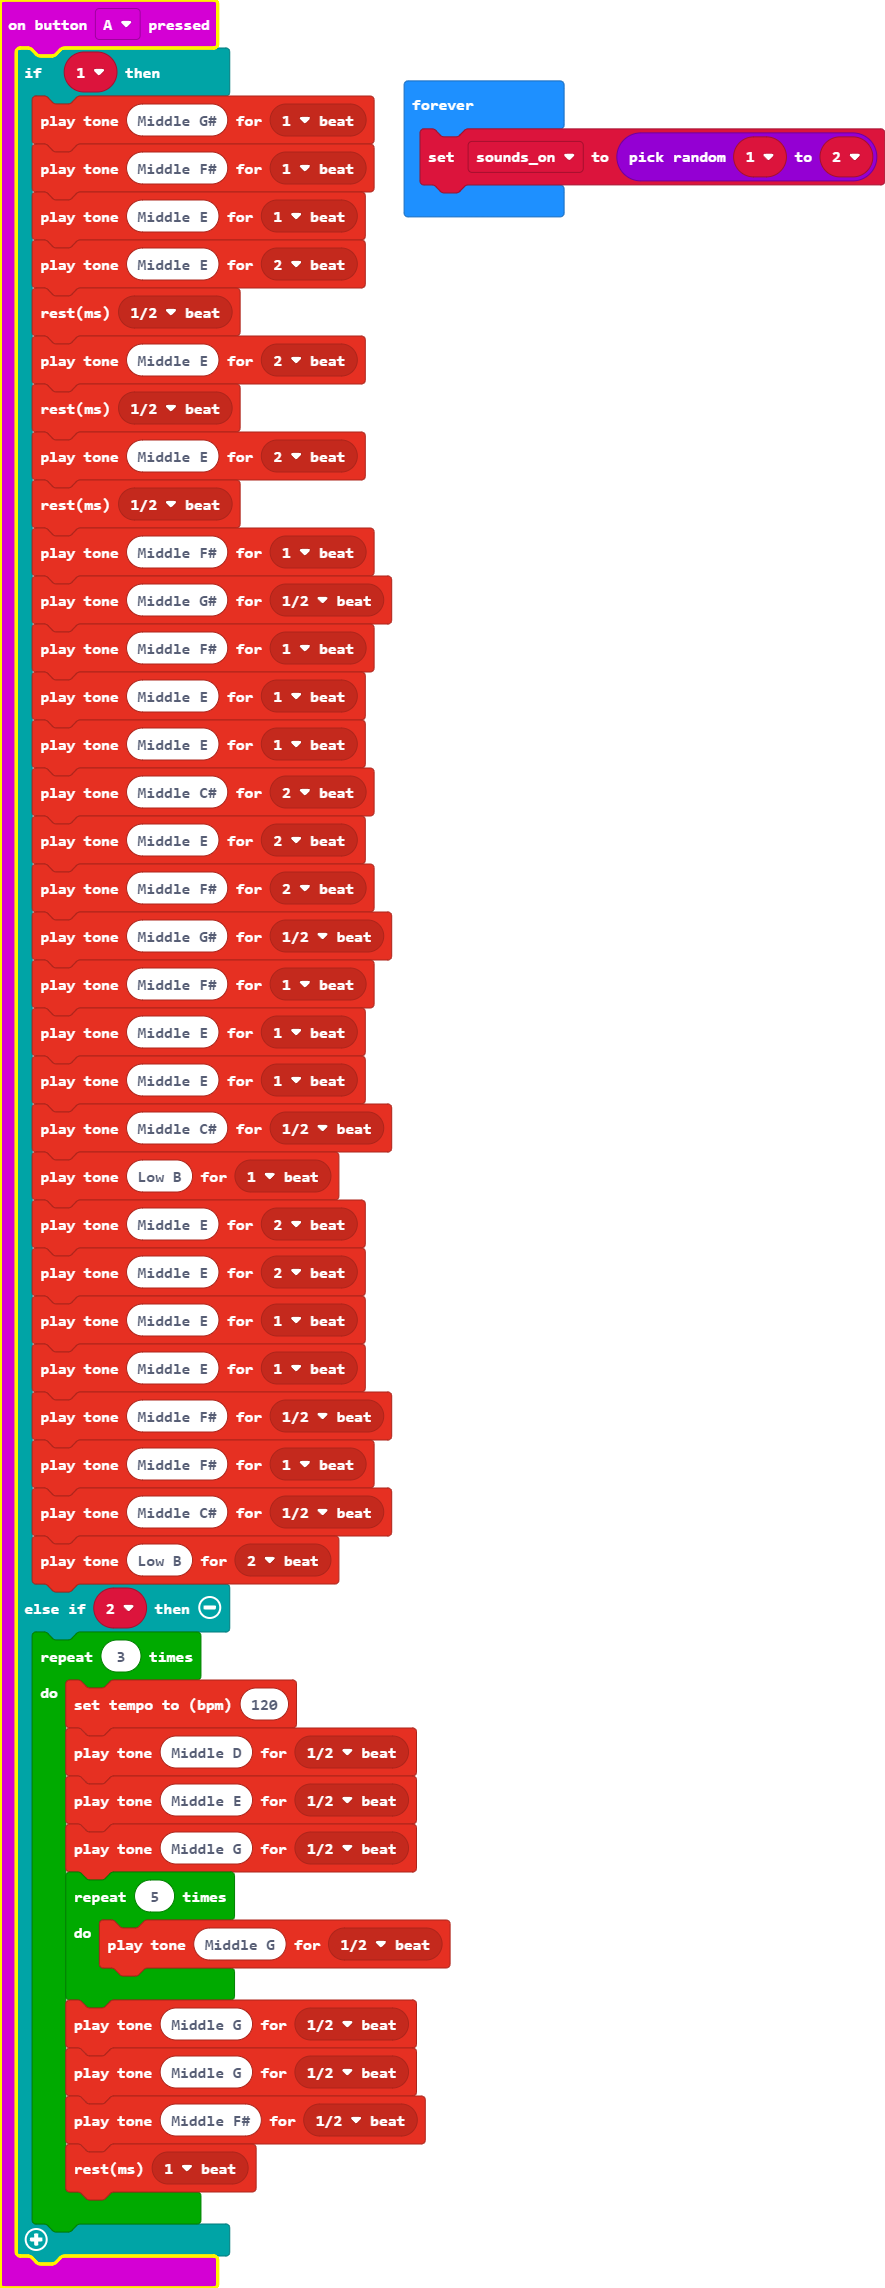
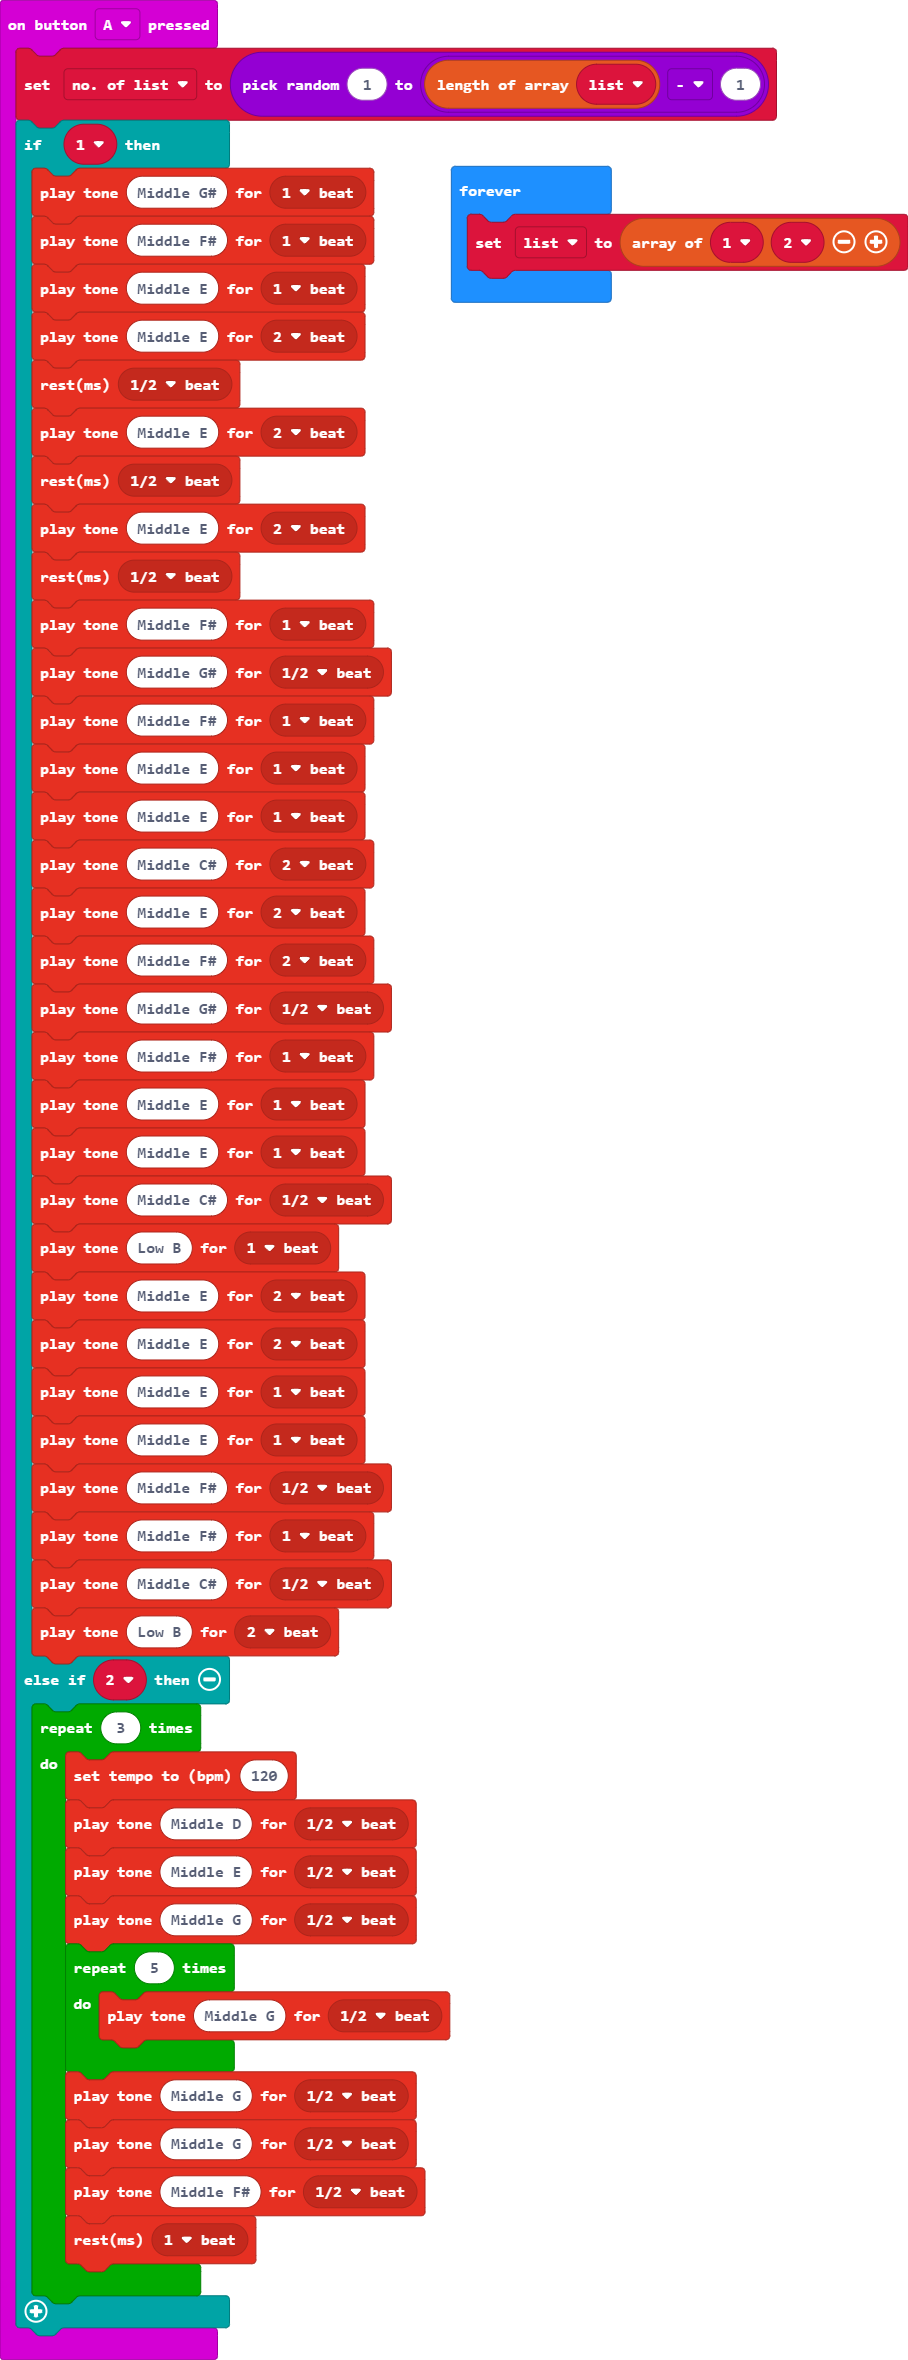
Update main.blocks, main.ts

Changed region(s): [[0.0, 0.0, 1.0, 1.0]]

diff --git a/main.ts b/main.ts
@@ -1,7 +1,9 @@
-let _1 = 0
-let _2 = 0
-let sounds_on = 0
+let _1: number = []
+let _2: number = []
+let no_of_list: number = []
+let list: number[] = []
 input.onButtonPressed(Button.A, function () {
+    no_of_list = randint(1, list.length - 1)
     if (_1) {
         music.playTone(415, music.beat(BeatFraction.Whole))
         music.playTone(370, music.beat(BeatFraction.Whole))
@@ -51,5 +53,5 @@ input.onButtonPressed(Button.A, function () {
     }
 })
 basic.forever(function () {
-    sounds_on = randint(_1, _2)
+    list = [_1, _2]
 })
